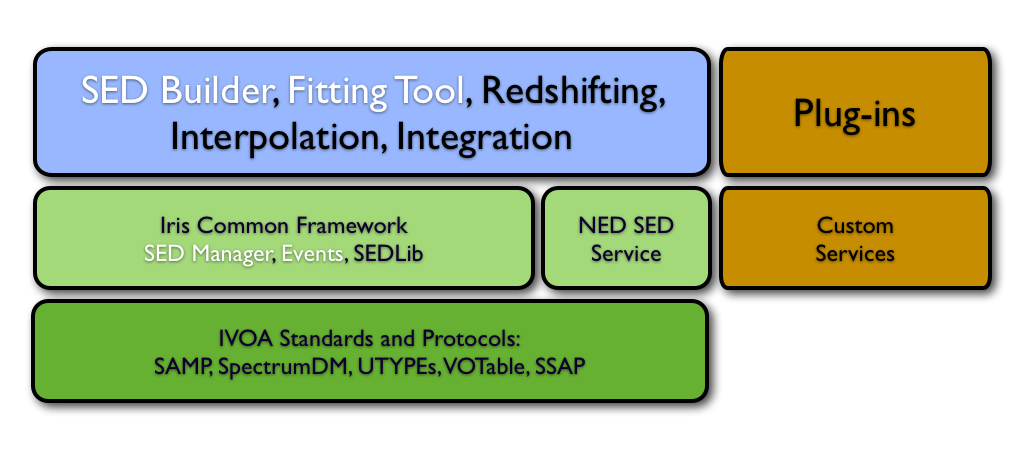
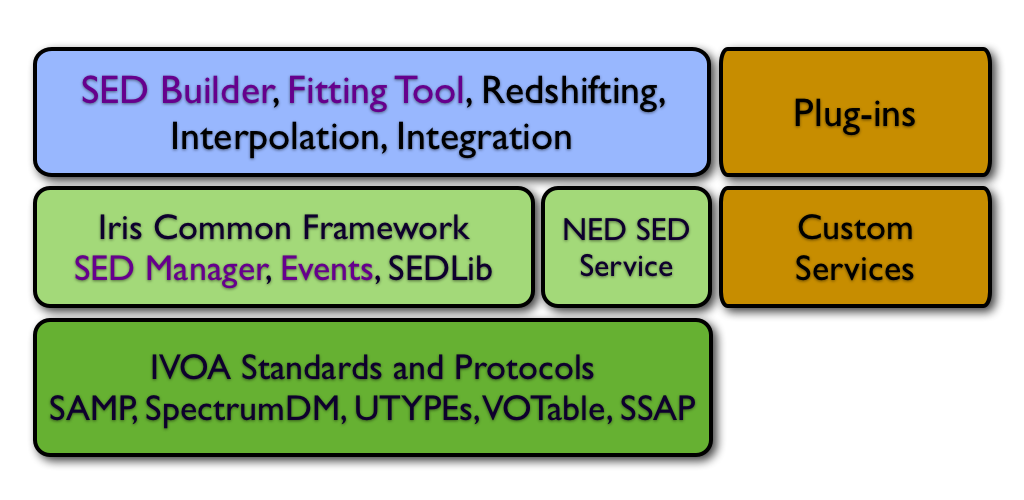
fix several figure-related issues plus introduce the desktop

diff --git a/aciris.tex b/aciris.tex
@@ -375,7 +375,7 @@ Protocol~\citep{2011arXiv1110.0528T}.
 
 But more importantly, Iris provides standardized views of the integrated
 datasets to its clients, whether they are built-in components, third party
-plugin-ins, or external applications.
+plug-ins, or external applications.
 
 %Iris is meant to be an open box SED analysis tool. If Iris is missing certain
 %functionality, the user may develop a plugin for that functionality and add it
@@ -484,7 +484,12 @@ the Components field. Below that is the Model Expression, in which the
 components are linearly combined. Note that components are referenced by the
 \textit{c\#} suffix of the component name.} \label{fig:fitting1} \end{figure*}
 
-An Iris session begins with populating a SED. A user loads a local ASCII file of
+The Iris main window represents a desktop where the windows opened by each of
+the Iris components are rendered. Components can be launched by clicking on
+their button on the desktop or by the correspondent menu item.
+
+An Iris session begins with populating a SED, clicking on the SED Builder icon on the
+desktop. A user loads a local ASCII file of
 PLANCK data, a WISE dataset from TOPCAT~\citep{2005ASPC..347...29T} through a
 SAMP message, and all data associated with PKS 1127-14 in NED with the NED SED
 Service portal. She also uses the built-in Italian Space Agency Science Data
@@ -729,7 +734,7 @@ for an example). Sherpa uses a grid-search method to find the best-fit template.
 
 \begin{figure}
 \begin{center}
-\includegraphics[width=\columnwidth]{figures/IrisStack.png} \caption{\textbf{The
+\includegraphics[width=1.0\columnwidth]{figures/IrisStack.png} \caption{\textbf{The
 Iris Stack} With its architecture Iris allows developers to create components
 using higher and higher abstractions on top of web services, desktop
 applications, and Virtual Observatory standards and protocols. The technical
@@ -768,7 +773,7 @@ modeling code and upload templates libraries to Iris.
 
 The color code in Figure \ref{fig:stack} adds a different dimension to this
 diagram and taps into a different characteristic of the Iris architecture:
-extensibility. In particular, white letters in blue boxes denote extensible
+extensibility. In particular, purple letters in blue boxes denote extensible
 components of the architecture, i.e. component that offer hooks into the Iris
 architecture to users and developers. The orange boxes, on the other hand,
 express components that were not even part of the Iris design, but that can be
@@ -802,7 +807,7 @@ provided in some of the following sections.
 \section{The Iris Architecture} \label{sec:architecture}
 
 \begin{figure*} \begin{center}
-\includegraphics[width=0.6\textwidth]{figures/IrisDiagrams.001.png}
+\includegraphics[width=0.7\textwidth]{figures/IrisDiagrams.001.png}
 \caption{\textbf{The Iris loosely coupled, extensible architecture} Information
 freely flows among built-in and third-party components provided as plug-ins. A
 SED Manager gives components access to the state of the SEDs in the user's
